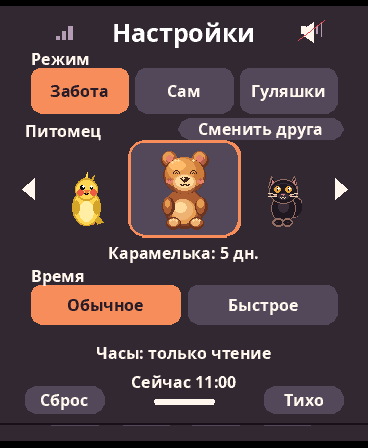
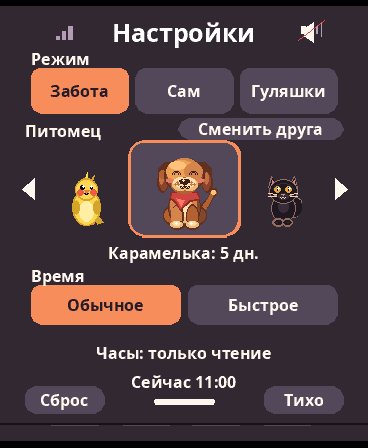
Keep Caramel a puppy with expressive native shading and motion

Changed region(s): [[0.4185, 0.3125, 0.5978, 0.5312]]

diff --git a/desenho.py b/desenho.py
@@ -747,72 +747,149 @@ def calopsita(cx, pe, olhos, boca, doente, s, ol):
     return pe - 77 * s, pe - 114 * s, 28 * s, [(cx + ox * s, pe + oy * s) for ox, oy, _ in ((-9, -81, 5), (9, -81, 5))]
 
 
-def cachorro(cx, pe, olhos, boca, doente, s, ol):
-    """Карамелька: warm caramel teddy. The old save/peer id is intentional."""
+# Small linked poses: (tail tip x, tail tip y, ear bounce, front paw lift).
+# Each pose is drawn from the same anchors, including during a whole-body roll.
+_DOG_POSES = (
+    (42, -51, 0, 0), (46, -43, 1, 0), (46, -34, 2, 0),
+    (43, -40, 1, 0), (39, -49, 0, 0),
+)
+_DOG_WALK = (0, 3, 5, 3, 0, -3, -5, -3)
+
+
+def _dog_pose(motion, olhos, boca, doente):
+    action, now = motion if motion else ('still', 0)
+    facing = -1 if action == 'walk-left' else 1
+    if action == 'asleep' or boca == 'dormindo':
+        return 34, -12, 0, 0, 3, facing, False
+    if doente or action == 'hungry':
+        return 38, -22, 0, 0, 2, facing, False
+    fast = action in ('greeting', 'happy', 'jump')
+    frame = (now // (72 if fast else 155)) % len(_DOG_POSES)
+    tx, ty, ear, paw = _DOG_POSES[frame]
+    if action in ('walk-left', 'walk-right'):
+        paw = _DOG_WALK[(now // 83) % len(_DOG_WALK)]
+        ear = abs(paw) * 0.58
+    elif action == 'jump':
+        ear = -1 - frame * 0.7
+        paw = 2
+    elif fast:
+        paw = 2 if frame in (1, 2) else 0
+    chew = action == 'eating'
+    nod = (2 if (now // 150) % 2 else 0) if chew else (1 if action == 'thinking' else 0)
+    tongue = chew and (now // 150) % 2 == 0
+    tongue = tongue or (fast and boca == 'sorriso' and frame in (1, 2, 3))
+    return tx, ty, ear, paw, nod, facing, tongue
+
+
+def cachorro(cx, pe, olhos, boca, doente, s, ol, motion=None):
+    """Карамелька: puppy silhouette and caramel toy-style shading."""
+    tx, ty, ears, paw, nod, facing, tongue = _dog_pose(motion, olhos, boca, doente)
     E, P, R, A = _rel(cx, pe, s, ol, None)
-    ink, rim = (70, 38, 30), (104, 53, 35)
-    shade, mid, fur = (135, 71, 43), (171, 93, 50), (204, 127, 62)
-    glow, gold = (228, 156, 81), (249, 187, 107)
-    milk, cream = (237, 178, 117), (255, 216, 152)
-    rose, blush = (181, 93, 77), (231, 128, 108)
-    # Back paws, round ears and a low belly give the bear a toy-like silhouette.
-    E(-22, -98, 12, 13, rim, 1); E(22, -98, 12, 13, rim, 1)
-    for x in (-22, 22):
-        E(x - 0.8, -99.5, 10.2, 10.5, mid)
-        E(x - 1.4, -101, 7.8, 8, glow)
-        E(x + 0.5, -98, 6.3, 7.2, rose)
-        E(x - 0.3, -100.1, 4.4, 4.9, blush)
-    E(0, -28, 30, 29, rim, 1)
-    E(-1, -29, 28, 26, shade)
-    E(-2, -32, 26, 22.5, mid)
-    E(-2, -24, 17.5, 18, glow)
-    E(-3.5, -25.5, 15.2, 15.5, milk)
-    E(-6, -29, 9, 8, cream)
-    for x in (-24, 24):
-        E(x, -31, 8.5, 13.5, rim)
-        E(x - 1, -32, 6.7, 11.1, mid)
-        E(x - 2, -35, 4.2, 6.5, glow)
-    for x in (-16.5, 16.5):
-        E(x, -5.5, 11, 8.5, rim, 1)
-        E(x - 0.35, -6.7, 9.6, 6.1, mid)
-        E(x - 0.75, -6.8, 6.8, 4.8, milk)
-    # Layered, asymmetrical values rather than a blurred gradient.
-    E(0, -76, 31, 27, rim, 1)
-    E(0, -76, 29, 26, shade)
-    E(-1.2, -78.5, 27.4, 23.2, fur)
-    E(-5.2, -84, 21, 16, glow)
-    E(-11.5, -90.4, 11.7, 7, gold)
-    E(0, -63, 17, 13, mid)
-    E(0, -65, 16.2, 11.6, milk)
-    E(-1.2, -67, 14, 9.1, cream)
-    bc = ENJOADA if doente else blush
-    E(-23, -67, 4.7, 2.7, bc); E(23, -67, 4.7, 2.7, bc)
-    eyes = ((-12, -81, 5.5), (12, -81, 5.5))
-    _olhos(E, R, A, eyes, olhos, ink, glow)
-    P(0, -69, (-5.8, -1.6, -3.8, -3.6, 3.8, -3.6, 5.8, -1.6,
-                2.6, 2.1, 0, 3.7, -2.6, 2.1), ink)
-    _boca(E, A, boca, 0, -62, 1.2, ink, True)
-    # Fine highlights/stitching are drawn at the panel's physical pitch.
+    ink, rim = (62, 35, 29), (100, 50, 34)
+    shade, mid, fur = (135, 72, 45), (177, 98, 52), (213, 135, 72)
+    glow, gold = (236, 162, 86), (251, 194, 120)
+    milk, cream = (239, 184, 125), (255, 222, 168)
+    ear_brown, ear_glint = (140, 70, 42), (197, 114, 68)
+    red, scarf, scarflight = (140, 44, 44), (207, 70, 65), (252, 121, 98)
+
+    # Single tail silhouette attached to the hip in every wag/sleep pose.
+    # A contrasting tip makes the movement readable at tiny scale as well.
+    def tail_shape(color, inner=False):
+        sx = facing
+        mid_x, mid_y = (25 + tx) * 0.5 + 1, (-20 + ty) * 0.5
+        m = 2 if inner else 0
+        P(0, 0, (sx * (17 + m), -26 + m, sx * mid_x, mid_y - 8 + m,
+                 sx * (tx - 3), ty - 5 + m, sx * (tx + 4 - m), ty - 5 + m,
+                 sx * (tx + 5 - m), ty + 2, sx * (tx - 1), ty + 7 - m,
+                 sx * (mid_x + 1), mid_y + 3 - m, sx * (20 + m), -14 - m), color)
+    tail_shape(rim); tail_shape(mid, True)
+    E((tx - 1) * facing, ty + .5, 3.7, 3.1, gold)
+
+    # Low hindquarters and two front feet give it a sitting puppy posture.
+    E(-18, -17, 13.5, 15.5, rim, 1); E(18, -17, 13.5, 15.5, rim, 1)
+    E(-20, -18, 10, 10.5, mid); E(20, -17, 10, 10.5, shade)
+    E(0, -29, 24, 27, rim, 1)
+    E(0, -29, 22, 25, shade); E(-2, -32, 19, 21.5, fur)
+    E(-1, -25, 13.2, 17.5, milk); E(-3.5, -28, 9.5, 14, cream)
+    for sign in (-1, 1):
+        x = sign * 11.5
+        lift = max(0, sign * paw)
+        E(x, -16 - lift, 8.8, 17.2, rim)
+        E(x - 0.8, -16.3 - lift, 6.8, 15.3, fur if sign < 0 else mid)
+        E(x, -3.5 - lift, 10.1, 6.5, rim)
+        E(x - 0.6, -4.5 - lift, 8.6, 5.1, milk)
+        E(x - 1.3, -5.2 - lift, 6.5, 3.1, cream)
+
+    # A red bandana separates head/body and gives this dog its own identity.
+    P(0, -45, (-21, -7, 19, -6, 21, 4, 6, 8, -6, 20, -15, 8, -21, 3), red)
+    P(0, -45, (-18, -5, 17, -4, 19, 3, 5, 6, -6, 17, -13, 7, -19, 1), scarf)
+    P(0, -42, (-13, 0, 0, 3, -5, 12), scarflight)
+
+    # The entire face follows the same small nod. Ear folds alone sway,
+    # and their roots remain inside the skull, even on a jump.
+    head = pe + nod * s
+    E, P, R, A = _rel(cx, head, s, ol, None)
+    for sign in (-1, 1):
+        drop = ears * (0.88 if sign < 0 else 1.12)
+        dx = sign * (32 + 0.7 * ears)
+        P(0, -75, (sign * 20, -19, sign * 30, -20, dx + sign * 6, -11,
+                    dx + sign * 7, 11 + drop, dx, 21 + drop,
+                    sign * 25, 17 + drop, sign * 21, -4), rim)
+        E(dx, -66 + drop, 8.5, 15.5, rim)
+        E(dx - sign * 0.4, -67 + drop, 6.6, 13.5, ear_brown)
+        E(dx - 1.5, -71 + drop, 4.1, 9.3, ear_glint)
+        if sign < 0:
+            E(dx - 0.8, -77 + drop, 4.5, 6, mid)
+    E(0, -76, 29.4, 25.5, rim, 1)
+    E(0, -76, 27.5, 24, shade)
+    E(-1.4, -78, 26, 22, fur)
+    E(-4.5, -82, 22, 17.1, glow)
+    E(-10.5, -89.4, 11.7, 7, gold)
+    E(12, -82, 13.5, 11.8, fur)
+    look = -2.5 if facing < 0 else (2 if motion and motion[0] == 'walk-right' else 0)
+    # Two cheeks under the nose form a distinct, forward-projecting muzzle.
+    E(look, -61, 19, 11.5, mid)
+    E(look - 6.5, -63, 12, 9.7, milk); E(look + 6.5, -63, 12, 9.5, milk)
+    E(look - 6.9, -65, 10.8, 7.5, cream); E(look + 5.7, -65, 10.7, 7.5, cream)
+    bc = ENJOADA if doente else (228, 126, 101)
+    E(-23, -68, 4.4, 2.6, bc); E(23, -68, 4.4, 2.6, bc)
+
+    eyes = ((look - 12.2, -80, 6.6), (look + 12.2, -80, 6.6))
+    for ex, ey, rad in eyes:
+        if olhos in ('normal', 'sono'):
+            E(ex, ey, 6.4, rad + 0.5, shade)
+            E(ex, ey + .5, 5.2, rad - 0.1, ink)
+            E(ex + .9, ey + 2, 3.7, 3.9, (120, 65, 41))
+            E(ex - 1.2, ey - 1.8, 2.05, 2.0, BRANCO)
+            if olhos == 'sono':
+                R(ex - 6.5, ey - 7, 13, 6.8, glow)
+        else:
+            _olhos(E, R, A, ((ex, ey, rad),), olhos, ink, glow)
+    P(look, -66, (-7.5, -2.3, -5, -4.4, 4.9, -4.4, 7.1, -2.2,
+                   6, 1.1, 2.5, 3.8, -2, 3.8, -6.2, 1.5), ink)
+    R(look - .7, -63, 1.4, 3, ink)
+    if tongue:
+        E(look, -59, 5.6, 4.8, ink)
+        E(look, -57, 3.7, 3.25, (237, 121, 125))
+        R(look - 0.65, -58, 1.2, 2.1, (181, 71, 86))
+    else:
+        _boca(E, A, boca, look, -60, 1.27, ink, True)
+
     if getattr(_fb, 'native_art', False) and s >= 0.43:
-        E(-1.6, -70.9, 1.6, 0.7, (255, 226, 169))
-        for x in (-16.5, 16.5):
-            for off, dy in ((-4.7, -9.8), (0, -11.2), (4.7, -9.8)):
-                E(x + off, dy, 1, 0.75, cream)
-        for x, y in ((-17.8, -95.1), (-14, -97), (-9.7, -97.5), (12.4, -97.2),
-                     (-23.7, -70.3), (-20.6, -69.8), (21.8, -69.9)):
-            E(x, y, 0.95, 0.76, cream if y < -90 else rose)
-        if olhos == 'normal':
-            E(-10.7, -84.2, 0.85, 0.9, cream)
-            E(13.3, -84.2, 0.85, 0.9, cream)
+        E(look - 2, -68.1, 1.7, 0.8, (255, 226, 169))
+        for x, y in ((-10.6, -65), (-14, -63), (-9.2, -62), (9.8, -65), (13.1, -63), (8.8, -62)):
+            E(look + x, y, 0.81, 0.75, ear_glint)
+        for x in (-13, 10):
+            E(x, -6 - max(0, (-1 if x < 0 else 1) * paw), 1.4, 0.75, BRANCO)
     if doente:
-        termometro(cx + 34 * s, pe - 60 * s)
-    return pe - 76 * s, pe - 112 * s, 34 * s, [
-        (cx + x * s, pe + y * s) for x, y, _ in eyes]
+        termometro(cx + 37 * s, pe - 57 * s)
+    return head - 76 * s, head - 103 * s, 38 * s, [
+        (cx + x * s, head + y * s) for x, y, _ in eyes]
 
 
 def uses_pose_animation(id):
     info = zoo_registry.ANIMALS.get(id)
-    return bool(info and info.get('animated') is True)
+    return id == 'cachorro' or bool(info and info.get('animated') is True)
 
 
 def _animal_plugin(id, cx, pe, olhos, boca, doente, s, ol, pip_state=None, motion=None):
@@ -1009,6 +1086,9 @@ def personagem(id, cx, pe, olhos='normal', boca='sorriso', doente=False, contorn
         if artist is None:
             cab, topo, meia, olhos_pts = _animal_plugin(
                 id, cx, pe, olhos, boca, doente, s, OL if contorno else None, pip_state, motion)
+        elif id == 'cachorro':
+            cab, topo, meia, olhos_pts = artist(
+                cx, pe, olhos, boca, doente, s, OL if contorno else None, motion)
         else:
             cab, topo, meia, olhos_pts = artist(
                 cx, pe, olhos, boca, doente, s, OL if contorno else None)

diff --git a/tests/test_v1_caramel.py b/tests/test_v1_caramel.py
@@ -1,0 +1,92 @@
+"""Drive the puppy's real touch-to-pose paths on the offline host V1 rig."""
+from collections import defaultdict
+from unittest import TestCase
+from unittest.mock import patch
+
+from ports import amoled_v1, v1_full_game_emulate as game
+
+
+class CaramelV1Test(TestCase):
+    def observe(self, frames, **kw):
+        calls = defaultdict(list)
+        original = game.runpy.run_path
+
+        def watch(*args, **kwargs):
+            ns = original(*args, **kwargs)
+            art = ns["principal"].__globals__["d"]
+            select = art._dog_pose
+
+            def record(motion, eyes, mouth, sick):
+                pose = select(motion, eyes, mouth, sick)
+                if motion is not None:
+                    calls[motion[0]].append((motion[1], eyes, mouth, pose))
+                return pose
+
+            art._dog_pose = record
+            return ns
+
+        with patch.object(game.runpy, "run_path", watch):
+            image, result = game.emulate(
+                frames, initial_pet="cachorro", fixtures={"cachorro": 45},
+                screen_mode=amoled_v1.SCALE_LARGE, **kw,
+            )
+        self.assertEqual(image.size, (368, 448))
+        self.assertEqual(result["pet"], "cachorro")
+        self.assertEqual(result["life_stage"], "adulto")
+        self.assertTrue(result["offline_forced"])
+        self.assertEqual(result["saves"], "temporary")
+        return calls, result
+
+    def test_awake_tail_wags_and_real_feed_starts_chewing(self):
+        seen, outcome = self.observe(
+            game._idle(16) + (game._touch(48, 259),) + game._idle(16))
+        awake = seen["idle"]
+        chewing = seen["eating"]
+        self.assertGreaterEqual(len(awake), 12)
+        self.assertGreaterEqual(len(chewing), 12)
+        self.assertGreaterEqual(len({p[3][:2] for p in awake}), 3)
+        self.assertEqual({p[2] for p in chewing}, {"meia", "aberta"})
+        # Chewing visibly alternates head nod and tongue; ordinary wag doesn't.
+        self.assertEqual({pose[4] for _, _, _, pose in awake}, {0})
+        self.assertEqual(len({pose[4] for _, _, _, pose in chewing}), 2)
+        self.assertEqual({pose[6] for _, _, _, pose in chewing}, {False, True})
+        self.assertEqual(outcome["saved_food"], {"cachorro": 70})
+        self.assertEqual(outcome["fake_sound_events"].count("comer"), 1)
+
+    def test_a_real_body_tap_wags_in_celebration(self):
+        seen, outcome = self.observe(
+            game._idle(8) + (game._touch(120, 166),) + game._idle(12))
+        affectionate = seen["jump"] + seen["greeting"] + seen.get("happy", [])
+        self.assertGreaterEqual(len(affectionate), 5)
+        self.assertGreaterEqual(len({p[3] for p in affectionate}), 2)
+        self.assertTrue({p[3] for p in affectionate} - {p[3] for p in seen["idle"]})
+        self.assertEqual(outcome["fake_sound_events"].count("amor"), 1)
+        self.assertEqual(outcome["saved_food"], {"cachorro": 45})
+
+    def test_walk_in_each_direction_then_jump_with_the_short_touch(self):
+        right, left = game._touch(205, 160), game._touch(40, 160)
+        seen, outcome = self.observe(
+            (right,) * 12 + game._idle(3) + (left,) * 12 + game._idle(3)
+            + (right,) + game._idle(17), initial_mode="explore")
+        for action, direction in (("walk-right", 1), ("walk-left", -1)):
+            walk = seen[action]
+            self.assertGreaterEqual(len(walk), 5)
+            self.assertEqual({pose[5] for _, _, _, pose in walk}, {direction})
+            self.assertGreaterEqual(len({pose[3] for _, _, _, pose in walk}), 2)
+        self.assertGreaterEqual(len({p[3] for p in seen["jump"]}), 2)
+        self.assertEqual(outcome["fake_sound_events"].count("pulo"), 1)
+
+    def test_explore_uses_sleeping_pose_and_tail_stays_down(self):
+        seen, outcome = self.observe(
+            game._idle(12), initial_mode="explore",
+            fixture_epoch=game._GameRig.epoch_start + 12 * 3600)
+        asleep = seen["asleep"]
+        self.assertGreaterEqual(len(asleep), 10)
+        self.assertTrue(all(eyes == "fechados" and mouth == "dormindo"
+                            for _, eyes, mouth, _ in asleep))
+        poses = {p[3] for p in asleep}
+        self.assertEqual(len(poses), 1)
+        lowered_tail = next(iter(poses))
+        self.assertGreater(lowered_tail[1], -20)
+        self.assertFalse(lowered_tail[6])
+        self.assertNotIn("pulo", outcome["fake_sound_events"])

diff --git a/tests/test_sprite_cohesion.py b/tests/test_sprite_cohesion.py
@@ -151,7 +151,7 @@ class NativeSpriteTests(unittest.TestCase):
         self.assertLess(len(self.art._roll_native.buf), 76 * 1024)
         self.assertIsNone(self.art._roll_buf)
 
-    def test_caramel_bear_rotates_as_single_layer_and_terrain_can_cover_it(self):
+    def test_caramel_puppy_rotates_as_single_layer_and_terrain_can_cover_it(self):
         for a in (-math.pi / 3, math.pi / 2, math.pi):
             with self.subTest(angle=a):
                 self.draw('cachorro', a)

diff --git a/docs/SCREENSHOTS_RU.md b/docs/SCREENSHOTS_RU.md
@@ -1,8 +1,8 @@
 # Скриншоты MedveGoshi
 
-[← На главную](../README.md) · [Бйорни крупным планом](#бйорни-крупным-планом)
+[← На главную](../README.md) · [Карамелька в движении](#карамелька-в-движении) · [Бйорни крупным планом](#бйорни-крупным-планом)
 
-Все кадры сняты в эмуляторе **AMOLED V1, 368×448** из русской сборки [PR #2](https://github.com/Medvedolog/medvegoshi/pull/2). Реплики, часы и метки полей набраны пропорциональным Noto Sans Bold в родном разрешении, как и меню. В крупном режиме сцена рисуется прямо в 368×435 внутри панели, без растягивания кадра 240×284. Карамелька получила новый облик медвежонка с несколькими тонами шерсти и мелкими бликами на AMOLED. Слева игровой момент, справа тот же питомец в меню «Настройки». Подписи поясняют сцену; реплики в кавычках взяты с экрана. Нажми на кадр, чтобы увеличить.
+Все кадры сняты в эмуляторе **AMOLED V1, 368×448** из русской сборки [PR #2](https://github.com/Medvedolog/medvegoshi/pull/2). Реплики, часы и метки полей набраны пропорциональным Noto Sans Bold в родном разрешении, как и меню. В крупном режиме сцена рисуется прямо в 368×435 внутри панели, без растягивания кадра 240×284. Карамелька получила новый облик щенка: длинные ушки, светлая мордочка, карамельные тени и мелкие блики на AMOLED. Слева игровой момент, справа тот же питомец в меню «Настройки». Подписи поясняют сцену; реплики в кавычках взяты с экрана. Нажми на кадр, чтобы увеличить.
 
 | Питомец и сцена | В игре | В настройках |
 |---|:---:|:---:|
@@ -18,6 +18,12 @@
 | **10. Пип**<br>Самостоятельный режим<br>«17:00» | <a href="img/medvegoshi-ru/gallery/pip-play.png"><img src="img/medvegoshi-ru/gallery/pip-play.png" width="174" alt="Пип — Самостоятельный режим"></a> | <a href="img/medvegoshi-ru/gallery/pip-settings.png"><img src="img/medvegoshi-ru/gallery/pip-settings.png" width="174" alt="Пип в меню Настройки"></a> |
 | **11. Жирафик**<br>Взрослый на прогулке<br>«Поле 1» | <a href="img/medvegoshi-ru/gallery/girafa-play.png"><img src="img/medvegoshi-ru/gallery/girafa-play.png" width="174" alt="Жирафик — Взрослый на прогулке"></a> | <a href="img/medvegoshi-ru/gallery/girafa-settings.png"><img src="img/medvegoshi-ru/gallery/girafa-settings.png" width="174" alt="Жирафик в меню Настройки"></a> |
 | **12. Бйорни**<br>Вечерние гуляшки<br>«Поле 1» | <a href="img/medvegoshi-ru/gallery/bjorni-play.png"><img src="img/medvegoshi-ru/gallery/bjorni-play.png" width="174" alt="Бйорни — Вечерние гуляшки"></a> | <a href="img/medvegoshi-ru/gallery/bjorni-settings.png"><img src="img/medvegoshi-ru/gallery/bjorni-settings.png" width="174" alt="Бйорни в меню Настройки"></a> |
+
+## Карамелька в движении
+
+Щенок виляет хвостом в покое, жуёт во время кормления, радуется ласке и укладывает хвост во сне. На ходу поднимает лапки по очереди, а в прыжке ушки слегка подлетают. Это кадры из эмулятора, не отдельная рисованная анимация.
+
+[![Карамелька виляет хвостом, ест, радуется ласке и спит](img/medvegoshi-ru/caramel-motion.gif)](img/medvegoshi-ru/caramel-motion.gif)
 
 ## Бйорни крупным планом
 

diff --git a/README.md b/README.md
@@ -40,7 +40,7 @@
 
 ### 12 питомцев
 
-Девять из Capigoshi: **Капи, Слон, Утка, Осьминог, Попугай, Карамелька, Кот, Пришелец и Лягушонок**. В русской версии Карамелька теперь медвежонок с карамельной шерстью и светлыми подушечками лап; прежнее сохранение остаётся совместимым. В MedveGoshi к ним добавились **Пип, Жирафик и Бйорни**. У каждого своё сохранение: можно сменить питомца, а потом вернуться к прежнему прогрессу. Новые персонажи подключаются через [модульный каталог Zoo](https://github.com/Medvedolog/medvegoshi/tree/feature/russian-game-ui/zoo).
+Девять из Capigoshi: **Капи, Слон, Утка, Осьминог, Попугай, Карамелька, Кот, Пришелец и Лягушонок**. Карамелька остаётся щенком: висячие уши, светлая мордочка и карамельные тени. У неё теперь отдельные движения хвоста, ушей и лап; прежнее сохранение остаётся совместимым. В MedveGoshi к ним добавились **Пип, Жирафик и Бйорни**. У каждого своё сохранение: можно сменить питомца, а потом вернуться к прежнему прогрессу. Новые персонажи подключаются через [модульный каталог Zoo](https://github.com/Medvedolog/medvegoshi/tree/feature/russian-game-ui/zoo).
 
 ## Откуда проект
 

diff --git a/ports/README.md b/ports/README.md
@@ -266,7 +266,7 @@ RTC не подменяется выдуманной датой. По умолч
 соответствия, что и пиксели. В крупном режиме геометрия фона, питомцев
 и меню рисуется сразу на выходном поле 368×435 с учётом дробных границ.
 Готовые пиксельные спрайты сохраняют свою сетку и чёткие края.
-Карамелька получила детали под физическую плотность: мелкие блики и оттенки.
+Щенок Карамелька получил мелкие блики и оттенки под физическую плотность AMOLED, а также связанные движения хвоста, ушей и лап.
 Кувырок преобразует одну готовую позу на том же физическом шаге,
 а земля и меню по-прежнему рисуются поверх. Настройки,
 системные сообщения, диалоги питомцев и метки игрового экрана
